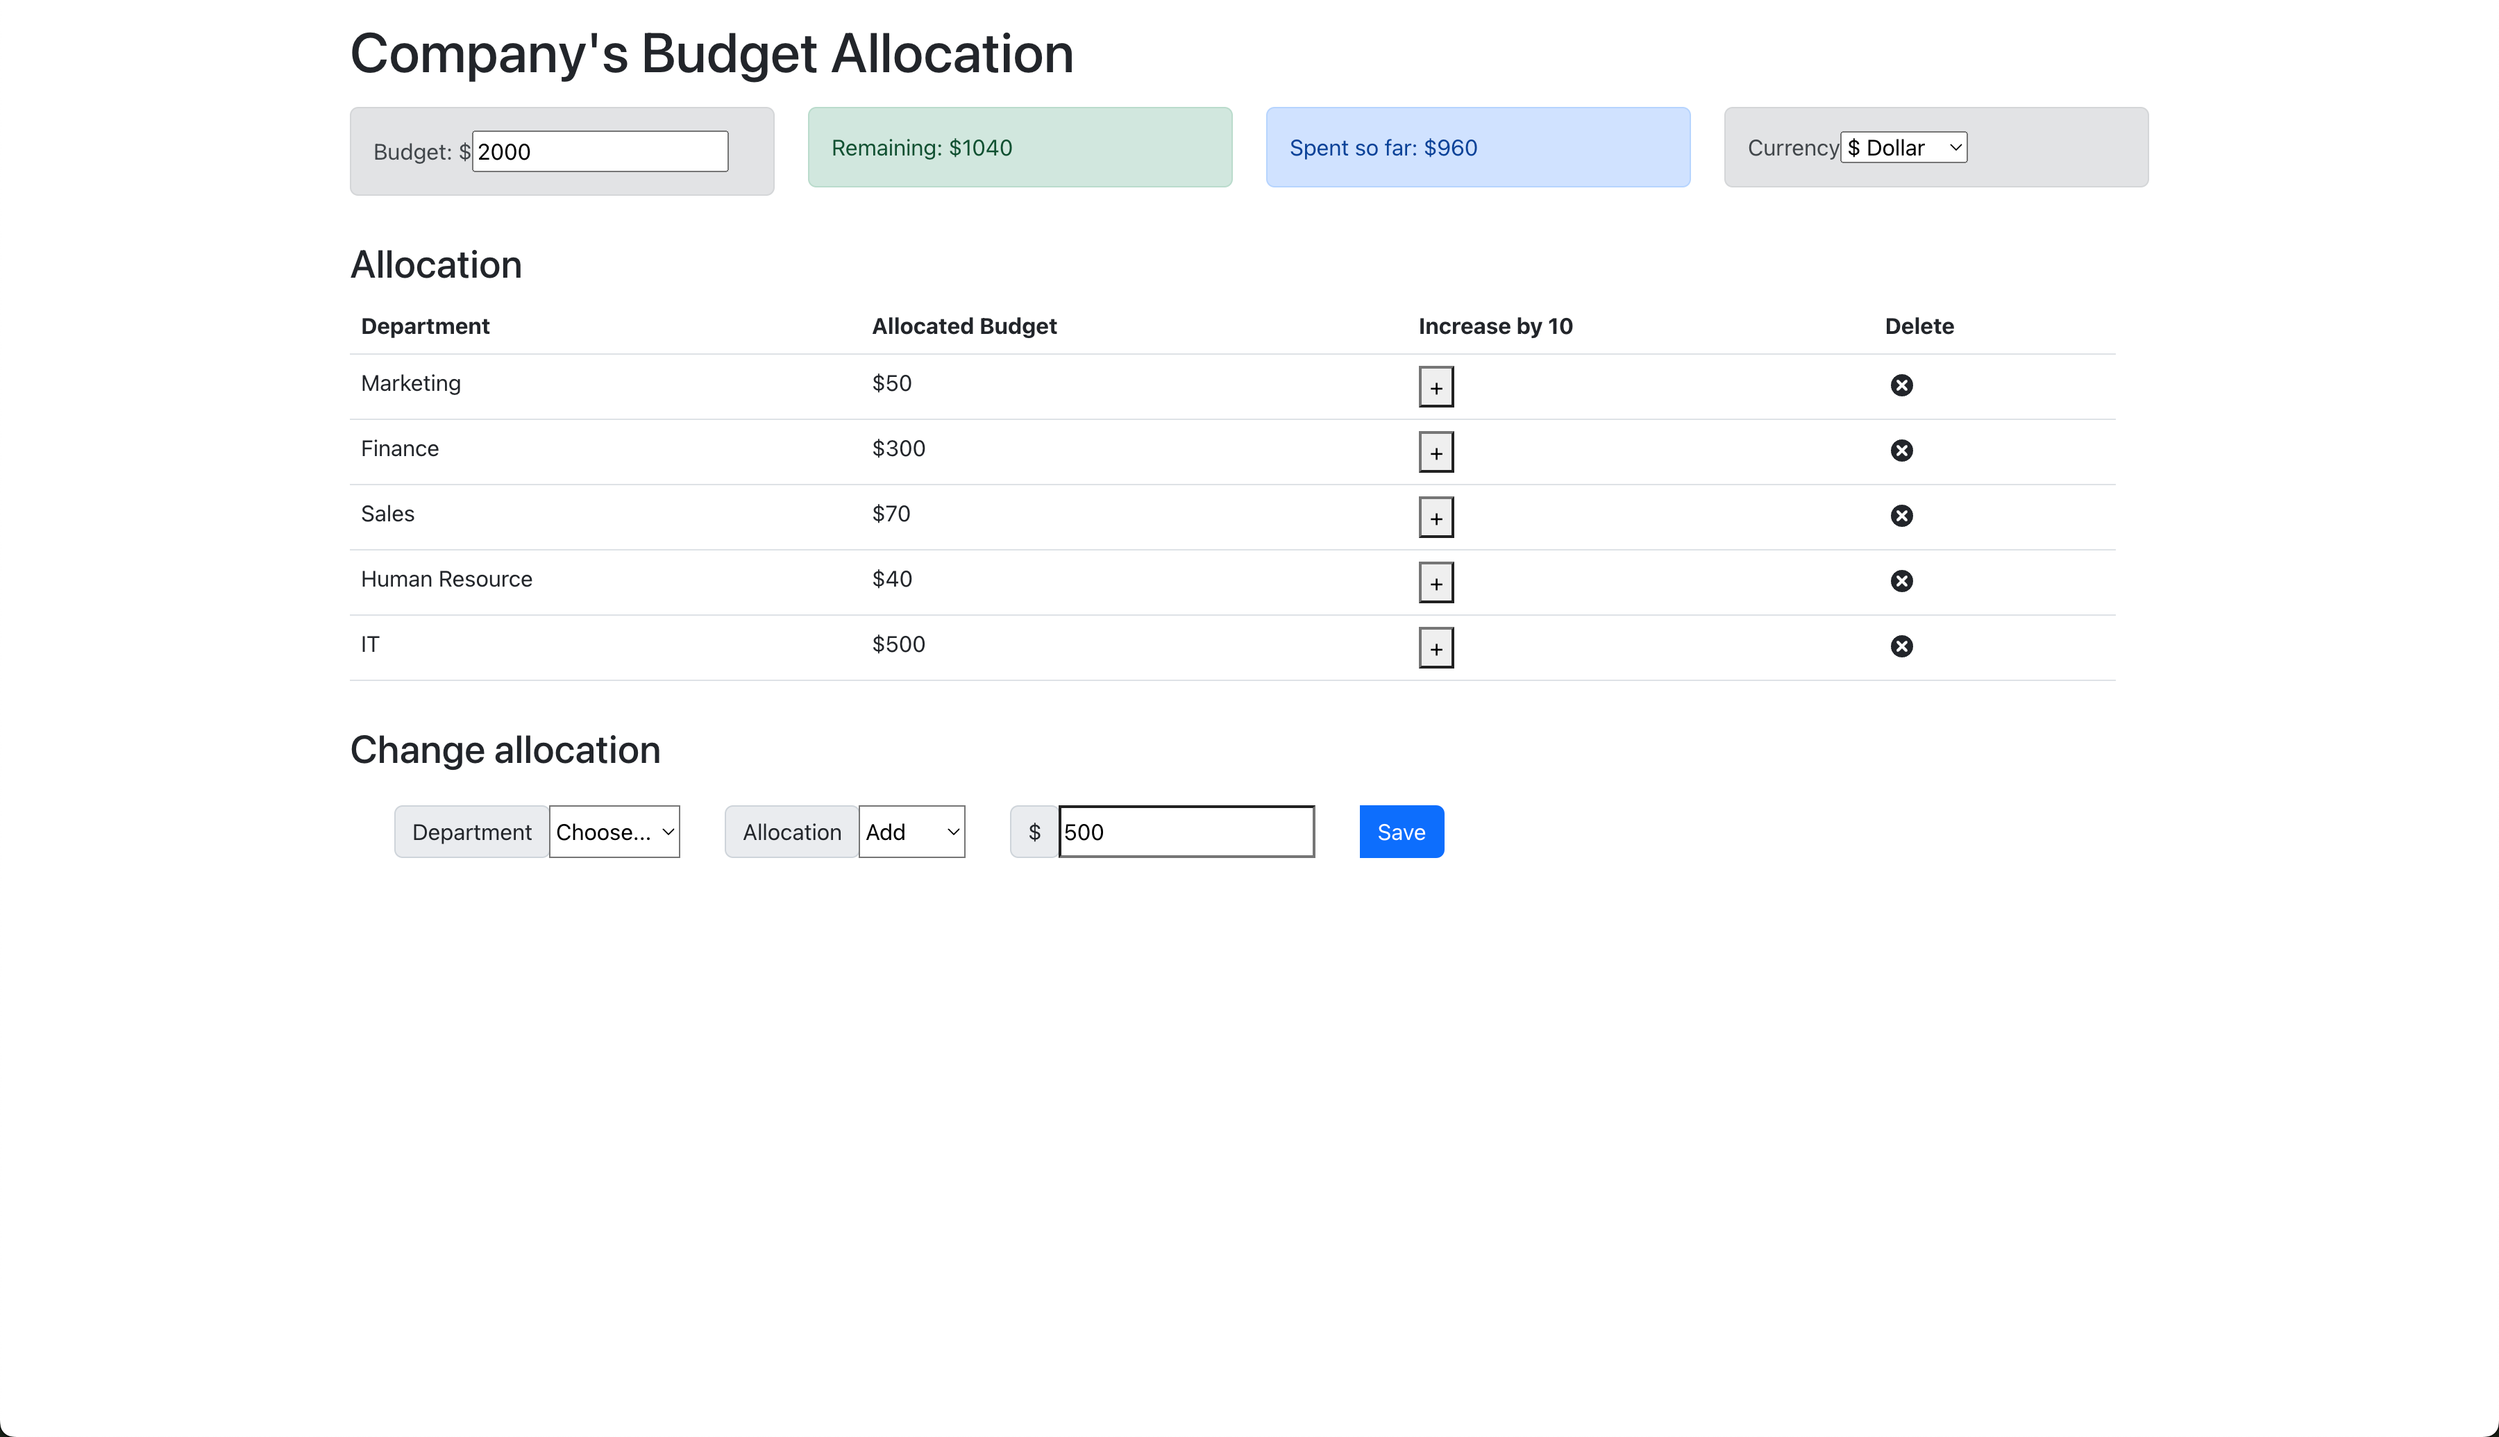
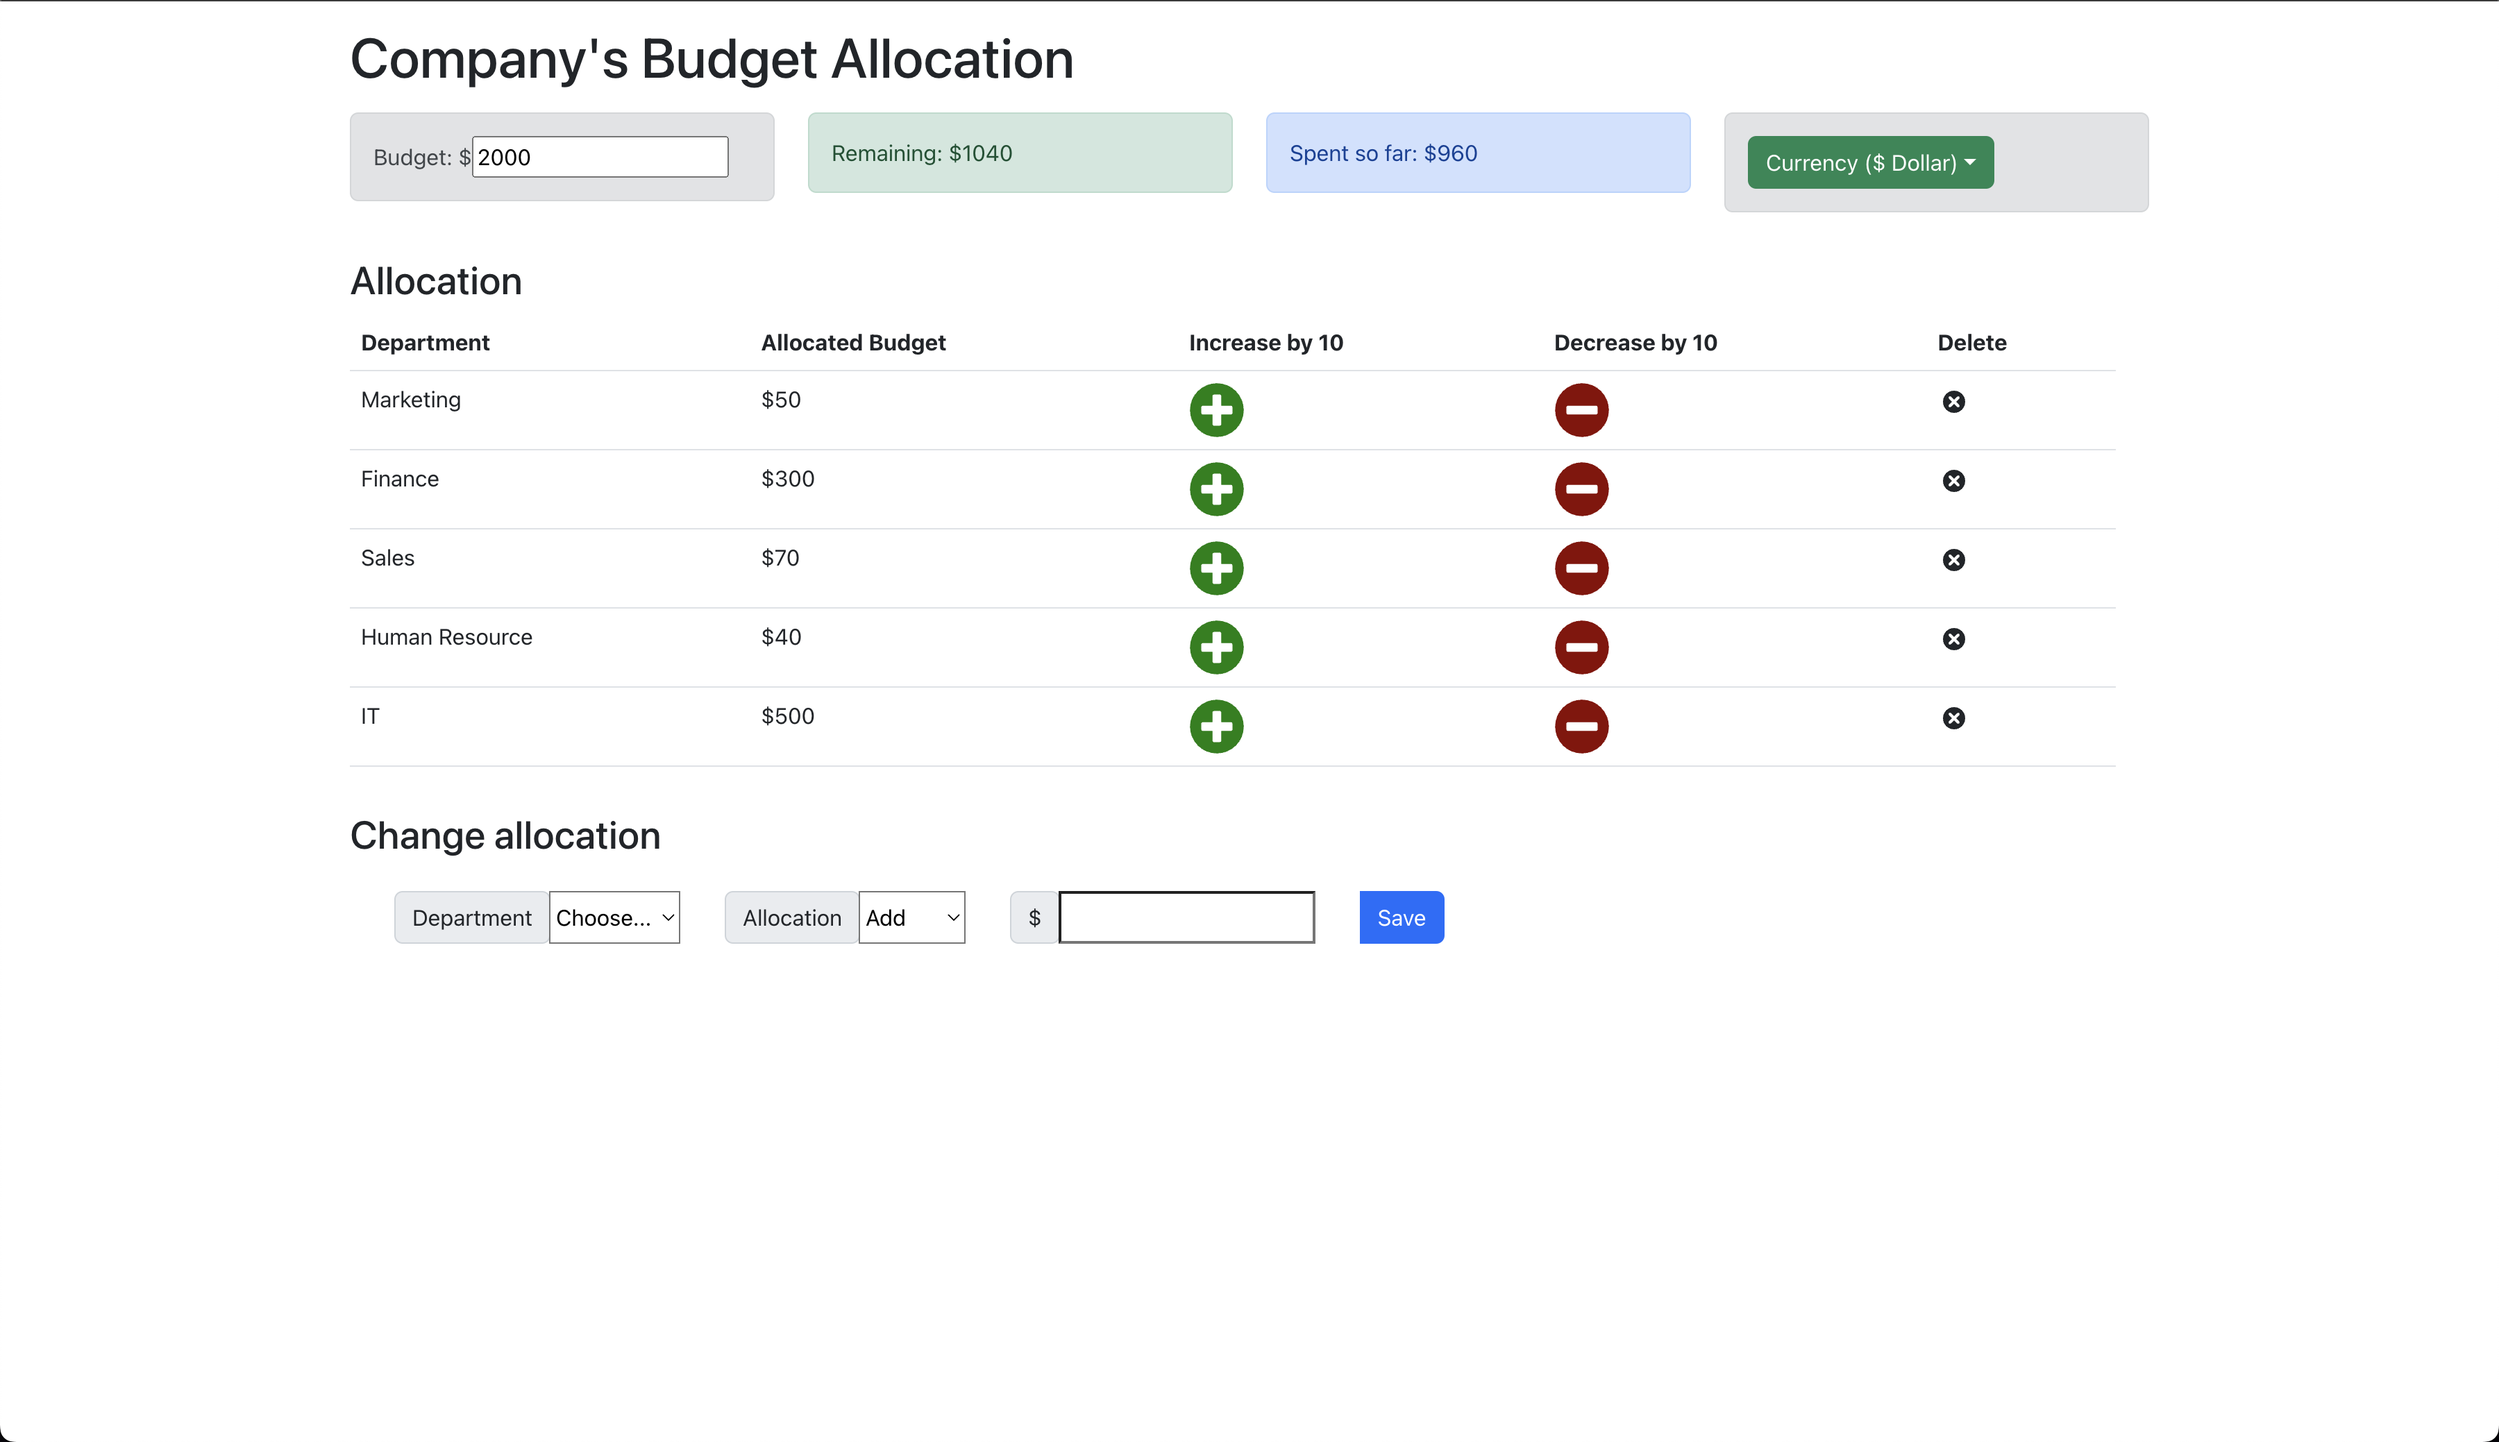
components: Currency: styled

diff --git a/src/components/Currency.js b/src/components/Currency.js
@@ -1,8 +1,16 @@
-import React, { useContext } from "react";
+import React, { useContext, useState } from "react";
 import { AppContext } from "../context/AppContext";
 
 export default function Currency() {
     const { currency, dispatch } = useContext(AppContext);
+    const [showOptions, setShowOptions] = useState(false);
+    const options = [
+        { label: "$ Dollar", value: "$" },
+        { label: "£ Pound", value: "£" },
+        { label: "€ Euro", value: "€" },
+        { label: "₹ Ruppee", value: "₹" },
+    ];
+    const selectedLabel = options.filter((item) => item.value === currency)[0].label;
 
 
     function handleCurrencyChange(event) {
@@ -10,18 +18,43 @@ export default function Currency() {
             type: "CHANGE_CURRENCY",
             payload: event.target.value,
         });
+
+        setShowOptions(false);
     }
 
     return (
         <div className="alert alert-secondary">
-            <div className="currency-select-container">
-                <span>Currency</span>
-                <select className="currency-select" value={currency} onChange={handleCurrencyChange}>
-                    <option value="$">$ Dollar</option>
-                    <option value="£">£ Pound</option>
-                    <option value="€">€ Euro</option>
-                    <option value="₹">₹ Ruppee</option>
-                </select>
+            <div className="dropdown">
+                <button
+                    className="btn btn-success dropdown-toggle"
+                    type="button"
+                    id="dropdownMenuButton"
+                    data-toggle="dropdown"
+                    aria-haspopup="true"
+                    aria-expanded="false"
+                    onClick={() => setShowOptions(!showOptions)}
+                >
+                    Currency ({selectedLabel})
+                </button>
+                <ul
+                    className={`dropdown-menu ${showOptions ? "show" : ""} bg-success`}
+                    aria-labelledby="dropdownMenuButton"
+                >
+                    {
+                        options.map((item,) => (
+                            <li
+                                key={item.value}
+                            >
+                                <button
+                                    className="dropdown-item"
+                                    onClick={() => handleCurrencyChange({ target: { value: item.value } })}
+                                >
+                                    {item.label}
+                                </button>
+                            </li>
+                        ))
+                    }
+                </ul>
             </div>
         </div>
     );
